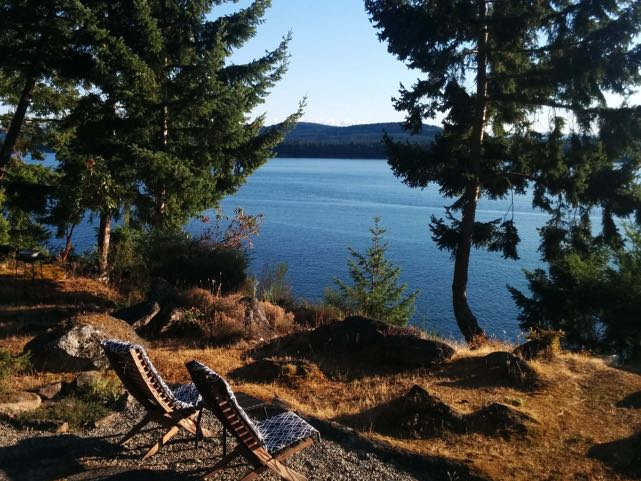
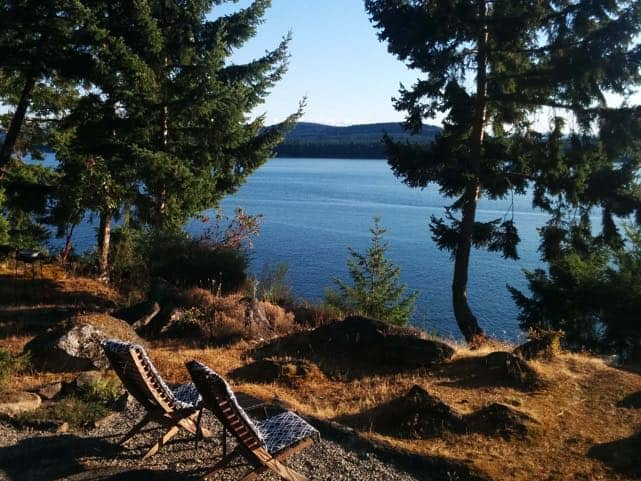
Add a image fallback test and optimize images

diff --git a/test/manual/amp-img-fallback.amp.html b/test/manual/amp-img-fallback.amp.html
@@ -1,0 +1,59 @@
+<!doctype html>
+<html ⚡>
+<head>
+  <meta charset="utf-8">
+  <title>AMP #0</title>
+  <link rel="canonical" href="amps.html" >
+  <meta name="viewport" content="width=device-width,minimum-scale=1,initial-scale=1">
+  <link href='https://fonts.googleapis.com/css?family=Questrial' rel='stylesheet' type='text/css'>
+  <style amp-custom>
+    body {
+      font-family: 'Questrial', Arial;
+    }
+
+    amp-img img {
+      margin: 30px;
+      padding: 30px;
+      border: 10px solid red;
+    }
+  </style>
+  <style amp-boilerplate>body{-webkit-animation:-amp-start 8s steps(1,end) 0s 1 normal both;-moz-animation:-amp-start 8s steps(1,end) 0s 1 normal both;-ms-animation:-amp-start 8s steps(1,end) 0s 1 normal both;animation:-amp-start 8s steps(1,end) 0s 1 normal both}@-webkit-keyframes -amp-start{from{visibility:hidden}to{visibility:visible}}@-moz-keyframes -amp-start{from{visibility:hidden}to{visibility:visible}}@-ms-keyframes -amp-start{from{visibility:hidden}to{visibility:visible}}@-o-keyframes -amp-start{from{visibility:hidden}to{visibility:visible}}@keyframes -amp-start{from{visibility:hidden}to{visibility:visible}}</style><noscript><style amp-boilerplate>body{-webkit-animation:none;-moz-animation:none;-ms-animation:none;animation:none}</style></noscript>
+  <script async src="https://cdn.ampproject.org/v0.js"></script>
+</head>
+<body>
+  <h1>amp-image</h1>
+  <h2>Unsupported formats</h2>
+  <h3>Smaller image is webp</h3>
+  <amp-img srcset="/examples/img/hero@1x.webp 1282w,
+  /examples/img/hero@2x.jpg 1923w" width=400 height=300 layout=responsive noloading
+      sizes="(max-width: 320px) 320px, 100vw">
+    <div placeholder>Placeholder</div>
+    <amp-img fallback src="/examples/img/sample.jpg" width=400 height=300 layout=responsive noloading></amp-img>
+  </amp-img>
+
+  <h3>Larger image is webp</h3>
+  <amp-img srcset="/examples/img/hero@1x.jpg 1282w,
+  /examples/img/hero@2x.webp 1923w" width=400 height=300 layout=responsive noloading
+      sizes="(max-width: 320px) 320px, 100vw">
+    <div placeholder>Placeholder</div>
+    <amp-img fallback src="/examples/img/sample.jpg" width=400 height=300 layout=responsive noloading></amp-img>
+  </amp-img>
+
+  <h2>404</h2>
+  <h3>Smaller image is 404</h3>
+  <amp-img srcset="/examples/img/non-existent.webp 1282w,
+  /examples/img/hero@2x.jpg 1923w" width=400 height=300 layout=responsive noloading
+      sizes="(max-width: 320px) 320px, 100vw">
+    <div placeholder>Placeholder</div>
+    <amp-img fallback src="/examples/img/sample.jpg" width=400 height=300 layout=responsive noloading></amp-img>
+  </amp-img>
+
+  <h3>Larger image is 404</h3>
+  <amp-img srcset="/examples/img/hero@1x.jpg 1282w,
+  /examples/img/non-existent.webp 1923w" width=400 height=300 layout=responsive noloading
+      sizes="(max-width: 320px) 320px, 100vw">
+    <div placeholder>Placeholder</div>
+    <amp-img fallback src="/examples/img/sample.jpg" width=400 height=300 layout=responsive noloading></amp-img>
+  </amp-img>
+</body>
+</html>
